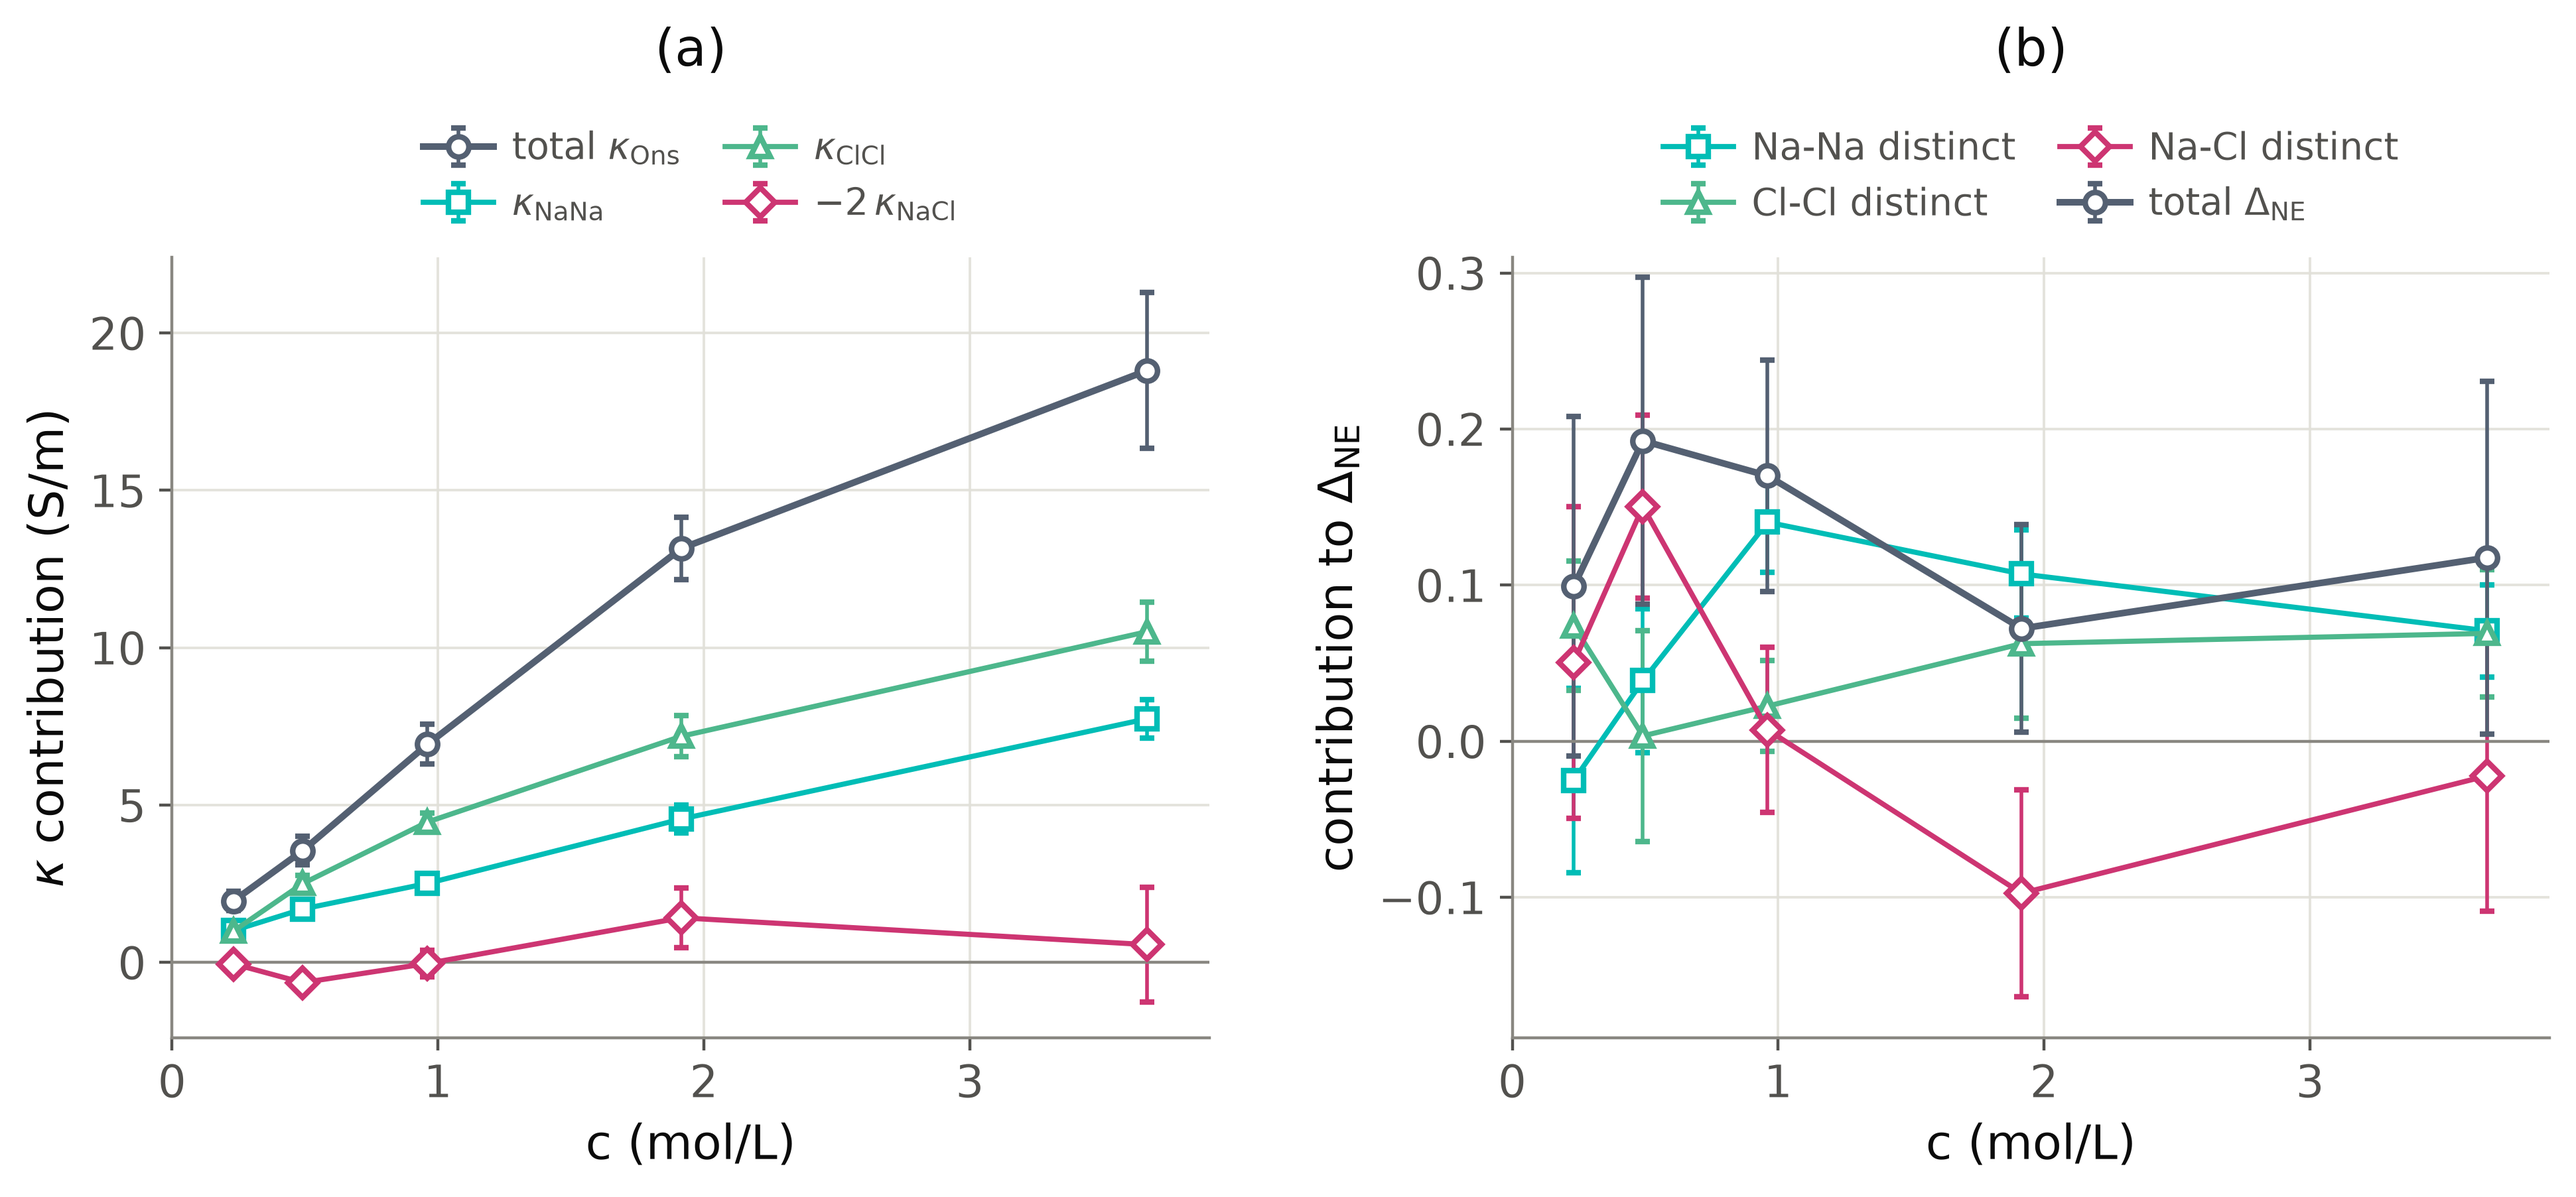
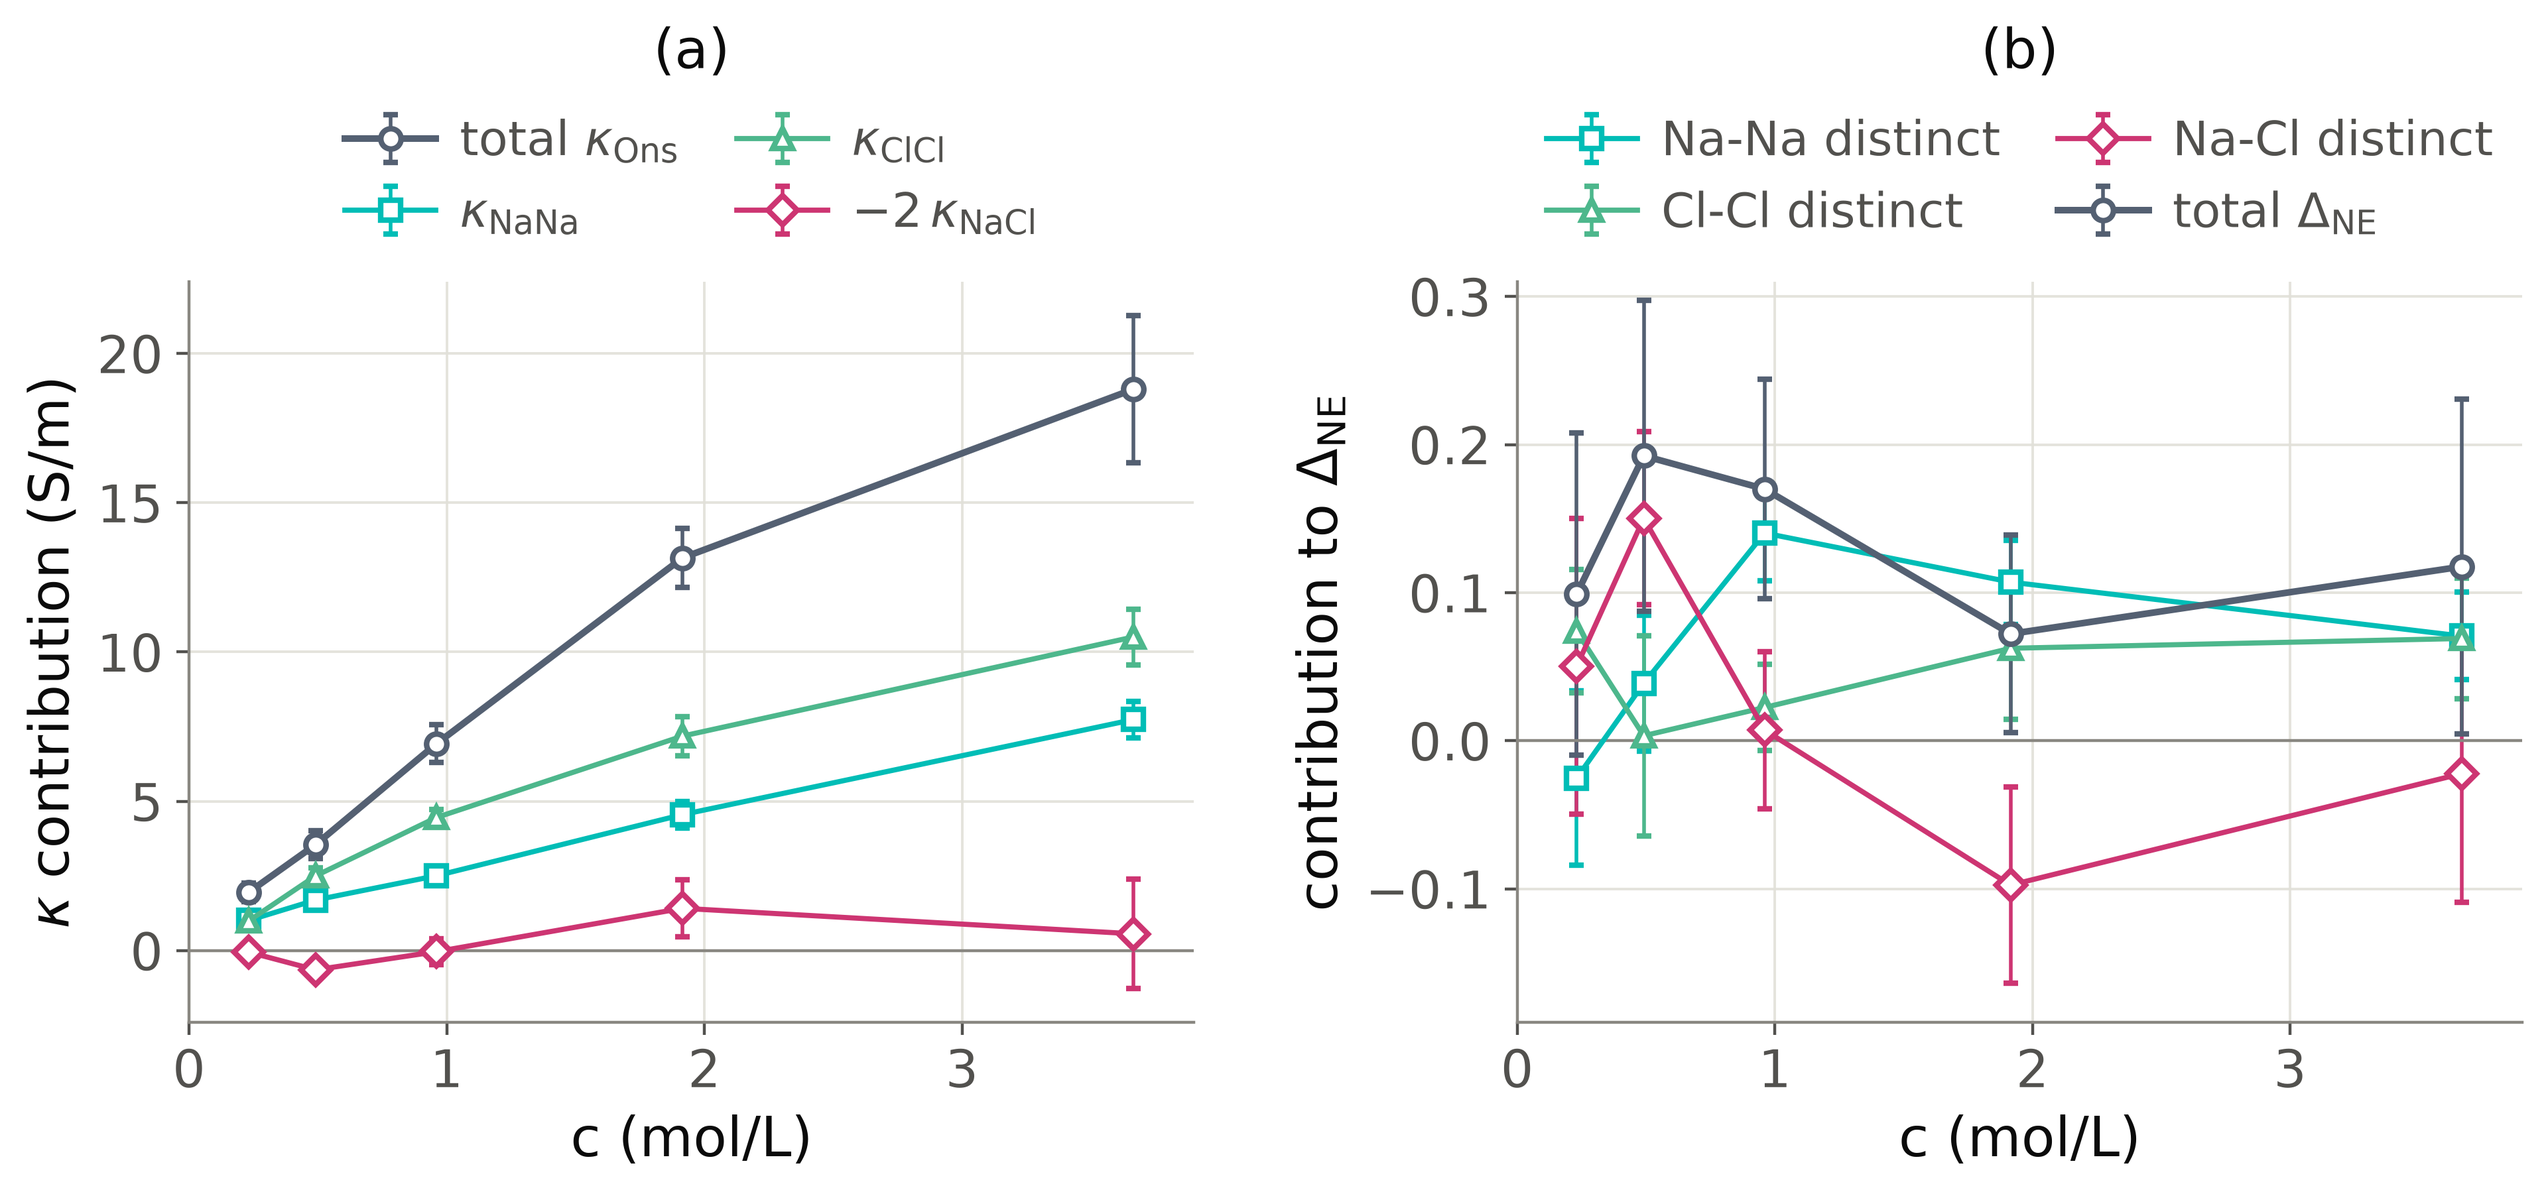
Larger legend and axis-label fonts for report figures; drop fig10 hollow/filled note; fig13 panel spacing

diff --git a/scripts/csd3_rpa_transport/make_series_figures.py b/scripts/csd3_rpa_transport/make_series_figures.py
@@ -360,11 +360,11 @@ def fig_three_way_1m(pair, mad_pair, rpa, mp2):
            label="RPA C-NNP")
     a.set_xlim(2.2, 8.0)
     a.set_ylim(-1.3, 1.5)
-    a.legend(frameon=False, fontsize=11, ncol=2, labelcolor=INK2,
+    a.legend(frameon=False, fontsize=13, ncol=2, labelcolor=INK2,
              loc="lower center", bbox_to_anchor=(0.5, 1.0),
              columnspacing=1.2, handlelength=1.8, handletextpad=0.5)
-    style(a, r"$r_{\mathrm{Na-Cl}}$ (Å)", r"$w(r)$ (kcal/mol)", fs=14)
-    a.set_title("(a)", color=INK, fontsize=15, pad=62)
+    style(a, r"$r_{\mathrm{Na-Cl}}$ (Å)", r"$w(r)$ (kcal/mol)", fs=15)
+    a.set_title("(a)", color=INK, fontsize=16, pad=64)
 
     # (b) D_ion / D_w: Madrid YH D_0 ratio; MP2/RPA per-segment means.
     def ratio(num, den):
@@ -400,11 +400,11 @@ def fig_three_way_1m(pair, mad_pair, rpa, mp2):
                        r"$D_{\mathrm{Cl}}/D_{\mathrm{w}}$"])
     b.set_xlim(-0.5, 1.6)
     b.set_ylim(0.35, 1.0)
-    b.legend(frameon=False, fontsize=11, ncol=2, labelcolor=INK2,
+    b.legend(frameon=False, fontsize=13, ncol=2, labelcolor=INK2,
              loc="lower center", bbox_to_anchor=(0.5, 1.0),
              columnspacing=1.2, handlelength=1.8, handletextpad=0.5)
-    style(b, "", r"$D_{\mathrm{ion}}\,/\,D_{\mathrm{water}}$", fs=14)
-    b.set_title("(b)", color=INK, fontsize=15, pad=62)
+    style(b, "", r"$D_{\mathrm{ion}}\,/\,D_{\mathrm{water}}$", fs=15)
+    b.set_title("(b)", color=INK, fontsize=16, pad=64)
     fig.tight_layout()
     savefig(fig, "fig8_three_way_1m")
 
@@ -424,11 +424,11 @@ def fig_pairing_series(pair, mad_pair):
     ax1.axhline(0, color=MUTED, lw=0.8)
     ax1.set_xlim(2.2, 7.0)
     ax1.set_ylim(-1.3, 2.2)
-    ax1.legend(frameon=False, fontsize=9, labelcolor=INK2, ncol=3,
+    ax1.legend(frameon=False, fontsize=12, labelcolor=INK2, ncol=3,
                loc="lower center", bbox_to_anchor=(0.5, 1.0),
-               columnspacing=1.2, handlelength=1.8, handletextpad=0.5)
-    style(ax1, r"$r_{\mathrm{NaCl}}$ (Å)", r"$w(r)$ (kcal/mol)")
-    ax1.set_title("(a)", color=INK, fontsize=11, pad=44)
+               columnspacing=1.0, handlelength=1.6, handletextpad=0.4)
+    style(ax1, r"$r_{\mathrm{NaCl}}$ (Å)", r"$w(r)$ (kcal/mol)", fs=15)
+    ax1.set_title("(a)", color=INK, fontsize=15, pad=58)
     cr = [1.0, 2.0, 4.0]
     y = [pair[m]["n_CIP"] for m in (1.0, 2.0, 4.0)]
     ys = [pair[m]["n_CIP_sem"] for m in (1.0, 2.0, 4.0)]
@@ -443,10 +443,11 @@ def fig_pairing_series(pair, mad_pair):
                  lw=1.4, elinewidth=1.0, capsize=2, label="Madrid-2019")
     ax2.set_xlim(*SERIES_XLIM)
     ax2.set_ylim(0, 0.60)
-    ax2.legend(frameon=False, fontsize=9, labelcolor=INK2, ncol=2,
+    ax2.legend(frameon=False, fontsize=12, labelcolor=INK2, ncol=2,
                loc="lower center", bbox_to_anchor=(0.5, 1.0))
-    style(ax2, SERIES_XLABEL, r"$n_{\mathrm{CIP}}$ (contact Cl per Na)")
-    ax2.set_title("(b)", color=INK, fontsize=11, pad=44)
+    style(ax2, SERIES_XLABEL, r"$n_{\mathrm{CIP}}$ (contact Cl per Na)", fs=15)
+    ax2.set_title("(b)", color=INK, fontsize=15, pad=58)
+    fig.tight_layout(w_pad=4)
     savefig(fig, "fig13_pairing_series")
 
 
@@ -671,12 +672,12 @@ def fig_kappa_series(mad, rpa):
             marker="o", ms=5, ls="",
             color=SLATE3, label="Experiment", zorder=5)
     h, l = ax.get_legend_handles_labels()
-    fig.legend(h, l, loc="upper center", bbox_to_anchor=(0.5, 1.09), ncol=3,
-               frameon=False, fontsize=8.5, columnspacing=1.4,
-               handlelength=2.2, handletextpad=0.5, labelcolor=INK2)
+    fig.legend(h, l, loc="upper center", bbox_to_anchor=(0.5, 1.12), ncol=3,
+               frameon=False, fontsize=11.5, columnspacing=1.2,
+               handlelength=2.0, handletextpad=0.4, labelcolor=INK2)
     ax.set_xlim(*SERIES_XLIM)
     ax.set_ylim(0, 24)
-    style(ax, SERIES_XLABEL, r"$\kappa$ (S/m)")
+    style(ax, SERIES_XLABEL, r"$\kappa$ (S/m)", fs=13)
     savefig(fig, "fig9_kappa_series")
 
 
@@ -710,18 +711,16 @@ def fig_dne_series(mad, rpa):
                     mew=0, elinewidth=1.0, capsize=2, label="RPA")
         ax.axhline(0, color=MUTED, lw=0.8)
         ax.set_xlim(*SERIES_XLIM)
-        style(ax, None, None, lab)
+        style(ax, None, None, lab, fs=13)
     for ax in axes[1]:
-        ax.set_xlabel(SERIES_XLABEL, color=INK, fontsize=10)
+        ax.set_xlabel(SERIES_XLABEL, color=INK, fontsize=13)
     for ax in axes[:, 0]:
         ax.set_ylabel(r"contribution to $\Delta_{\mathrm{NE}}$",
-                      color=INK, fontsize=10)
+                      color=INK, fontsize=13)
     h, l = axes.flat[0].get_legend_handles_labels()
     fig.legend(h, l, loc="upper center", bbox_to_anchor=(0.5, 1.02), ncol=3,
-               frameon=False, fontsize=9.5, columnspacing=2.0,
+               frameon=False, fontsize=13, columnspacing=2.0,
                handlelength=2.2, handletextpad=0.5, labelcolor=INK2)
-    fig.text(0.5, 0.955, "hollow: Madrid-2019 (lines)   filled: RPA / MP2 (points)",
-             ha="center", fontsize=8, color=INK2)
     savefig(fig, "fig10_dne_series")
 
 
@@ -749,10 +748,10 @@ def fig_tna_series(mad, rpa):
             ms=5, ls="", color=SLATE3, label="Experiment", zorder=5)
     ax.set_xlim(*SERIES_XLIM)
     h, l = ax.get_legend_handles_labels()
-    fig.legend(h, l, loc="upper center", bbox_to_anchor=(0.5, 1.05), ncol=2,
-               frameon=False, fontsize=9, columnspacing=2.0,
-               handlelength=2.4, handletextpad=0.6, labelcolor=INK2)
-    style(ax, SERIES_XLABEL, r"$t_{\mathrm{Na}^+}$ (Hittorf frame)")
+    fig.legend(h, l, loc="upper center", bbox_to_anchor=(0.5, 1.08), ncol=2,
+               frameon=False, fontsize=11.5, columnspacing=1.6,
+               handlelength=2.2, handletextpad=0.5, labelcolor=INK2)
+    style(ax, SERIES_XLABEL, r"$t_{\mathrm{Na}^+}$ (Hittorf frame)", fs=13)
     savefig(fig, "fig11_tna_series")
 
 
@@ -768,10 +767,10 @@ def fig_eta_series(rpa_eta, mp2_eta):
              marker="o", ms=5, ls="", color=SLATE3, label="Experiment",
              zorder=5)
     ax1.set_xlim(*SERIES_XLIM)
-    ax1.legend(frameon=False, fontsize=11, labelcolor=INK2, ncol=1,
+    ax1.legend(frameon=False, fontsize=13, labelcolor=INK2, ncol=1,
                loc="lower center", bbox_to_anchor=(0.5, 1.0))
-    style(ax1, SERIES_XLABEL, r"$\eta$ (mPa s)", fs=13)
-    ax1.set_title("(a)", color=INK, fontsize=14, pad=58)
+    style(ax1, SERIES_XLABEL, r"$\eta$ (mPa s)", fs=15)
+    ax1.set_title("(a)", color=INK, fontsize=15, pad=62)
     # (b) GK running integrals, per-molality segment mean
     for m in (1.0, 2.0, 4.0):
         e = rpa_eta[m]
@@ -785,11 +784,11 @@ def fig_eta_series(rpa_eta, mp2_eta):
     lo, hi = rpa_eta[1.0]["plateau"]
     ax2.axvspan(lo, hi, color=GRID, alpha=0.5, zorder=0)
     ax2.set_xlim(0, float(rpa_eta[1.0]["t_ps"].max()))
-    ax2.legend(frameon=False, fontsize=11, labelcolor=INK2, ncol=2,
+    ax2.legend(frameon=False, fontsize=13, labelcolor=INK2, ncol=2,
                loc="lower center", bbox_to_anchor=(0.5, 1.0),
                columnspacing=1.0, handlelength=1.6, handletextpad=0.4)
-    style(ax2, "t (ps)", r"$\eta_{\mathrm{GK}}(t)$ (mPa s)", fs=13)
-    ax2.set_title("(b)", color=INK, fontsize=14, pad=58)
+    style(ax2, "t (ps)", r"$\eta_{\mathrm{GK}}(t)$ (mPa s)", fs=15)
+    ax2.set_title("(b)", color=INK, fontsize=15, pad=62)
     savefig(fig, "fig12_eta_series")
 
 

diff --git a/scripts/cerberus_nacl_diffusion/lammps/make_figures.py b/scripts/cerberus_nacl_diffusion/lammps/make_figures.py
@@ -324,7 +324,7 @@ def fig_ne_deviation(out, kap):
                 mfc="white", mew=1.6, lw=1.8, elinewidth=1.0, capsize=2)
     ax.set_ylim(-0.05, 0.32)
     ax.set_xlim(0, 3.9)
-    style(ax, "c (mol/L)", r"$\Delta_{\mathrm{NE}}$")
+    style(ax, "c (mol/L)", r"$\Delta_{\mathrm{NE}}$", fs=13)
     savefig(fig, out, "fig4_ne_deviation")
 
 
@@ -446,11 +446,11 @@ def fig_onsager_decomp(out, kap):
                    mew=1.5, lw=lw, elinewidth=1.0, capsize=2, label=label)
     a.axhline(0, color=MUTED, lw=0.8)
     a.set_xlim(0, 3.9)
-    a.legend(frameon=False, fontsize=10, labelcolor=INK2, ncol=2,
+    a.legend(frameon=False, fontsize=13, labelcolor=INK2, ncol=2,
              loc="lower center", bbox_to_anchor=(0.5, 1.0),
              columnspacing=1.2, handlelength=1.9, handletextpad=0.5)
-    style(a, "c (mol/L)", r"$\kappa$ contribution (S/m)", fs=13)
-    a.set_title("(a)", color=INK, fontsize=14, pad=52)
+    style(a, "c (mol/L)", r"$\kappa$ contribution (S/m)", fs=15)
+    a.set_title("(a)", color=INK, fontsize=15, pad=58)
     for y, color, fmt, label in ((-dNaNa / kNE, C_NA, "s-", "Na-Na distinct"),
                                  (-dClCl / kNE, C_CL, "^-", "Cl-Cl distinct"),
                                  (2 * kNaCl / kNE, C_O, "D-", "Na-Cl distinct")):
@@ -464,11 +464,11 @@ def fig_onsager_decomp(out, kap):
     b.axhline(0, color=MUTED, lw=0.8)
     b.set_xlim(0, 3.9)
     b.set_ylim(-0.19, 0.31)
-    b.legend(frameon=False, fontsize=10, labelcolor=INK2, ncol=2,
+    b.legend(frameon=False, fontsize=13, labelcolor=INK2, ncol=2,
              loc="lower center", bbox_to_anchor=(0.5, 1.0),
              columnspacing=1.2, handlelength=1.9, handletextpad=0.5)
-    style(b, "c (mol/L)", r"contribution to $\Delta_{\mathrm{NE}}$", fs=13)
-    b.set_title("(b)", color=INK, fontsize=14, pad=52)
+    style(b, "c (mol/L)", r"contribution to $\Delta_{\mathrm{NE}}$", fs=15)
+    b.set_title("(b)", color=INK, fontsize=15, pad=58)
     fig.tight_layout(w_pad=3)
     savefig(fig, out, "fig67_decomposition")
 

diff --git a/scripts/csd3_nacl_mp2_anchor/plot_nacl_diffusion.py b/scripts/csd3_nacl_mp2_anchor/plot_nacl_diffusion.py
@@ -30,8 +30,8 @@ CAM = {
 plt.rcParams.update({
     "font.family": "serif",
     "font.serif": ["DejaVu Serif", "Liberation Serif", "serif"],
-    "font.size": 12, "axes.labelsize": 13, "axes.titlesize": 13,
-    "xtick.labelsize": 11, "ytick.labelsize": 11, "legend.fontsize": 10,
+    "font.size": 15, "axes.labelsize": 18, "axes.titlesize": 17,
+    "xtick.labelsize": 15, "ytick.labelsize": 15, "legend.fontsize": 13,
     "text.color": CAM["slate_4"], "axes.edgecolor": CAM["slate_4"],
     "axes.labelcolor": CAM["slate_4"], "xtick.color": CAM["slate_4"],
     "ytick.color": CAM["slate_4"], "axes.linewidth": 0.8,
@@ -71,7 +71,7 @@ ax[0].set_xlabel("lag time [ps]")
 ax[0].set_ylabel("water-O MSD [$\\AA^2$]")
 ax[0].set_title("(a)")
 ax[0].legend(frameon=False, loc="lower center", bbox_to_anchor=(0.5, 1.09),
-             ncol=2, columnspacing=1.8, handlelength=2.0, handletextpad=0.6)
+             ncol=2, columnspacing=1.2, handlelength=1.6, handletextpad=0.4)
 
 # ---- (b) Yeh-Hummer D vs 1/L -----------------------------------------------
 pts = {}
@@ -103,7 +103,7 @@ ax[1].set_xlabel("1/L [$\\AA^{-1}$]")
 ax[1].set_ylabel("$D_{\\mathrm{H_2O}}$ [$10^{-9}$ m$^2$ s$^{-1}$]")
 ax[1].set_title("(b)")
 ax[1].legend(frameon=False, loc="lower center", bbox_to_anchor=(0.5, 1.09),
-             ncol=3, columnspacing=1.4, handlelength=1.8, handletextpad=0.5)
+             ncol=3, columnspacing=1.0, handlelength=1.4, handletextpad=0.35)
 
 for ext in ("png", "pdf"):
     fig.savefig(f"{OUT}/nacl_diffusion_yh.{ext}")
